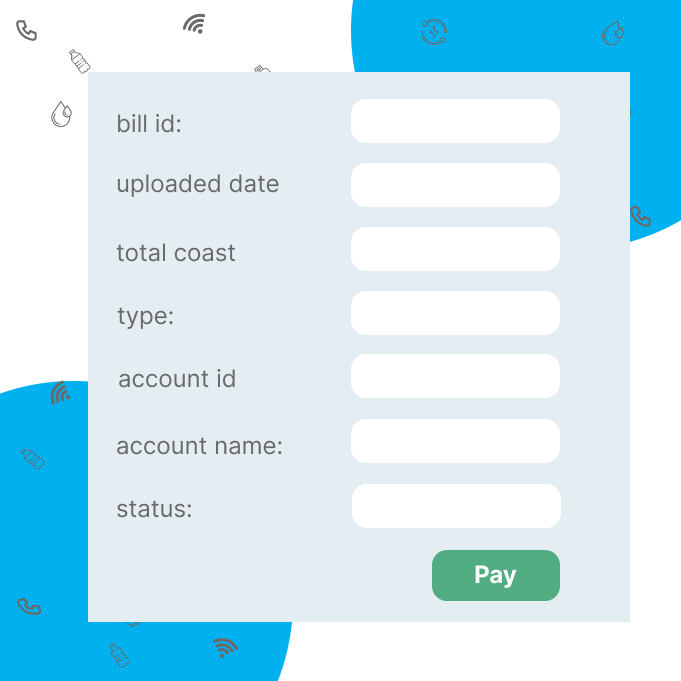
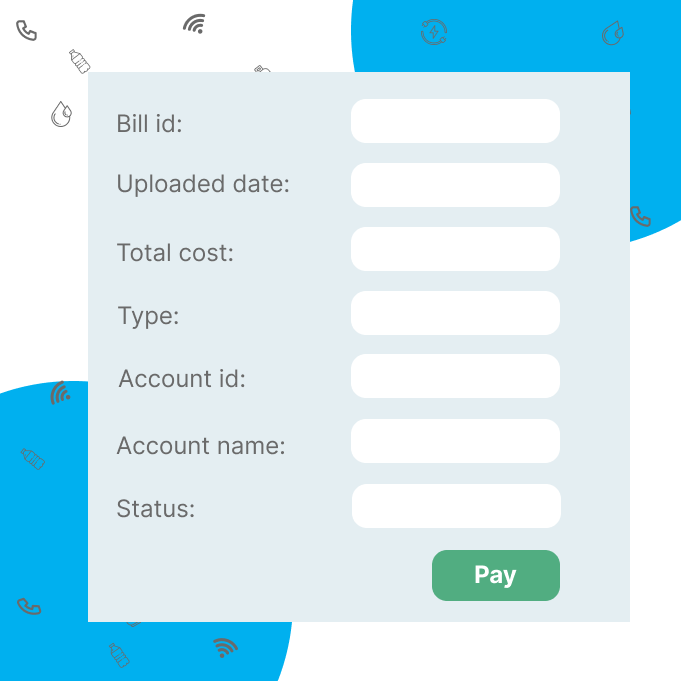
BillInfo Frame is ready to be used

diff --git a/billing manegment system/src/Bills_management_system/Bills_info.java b/billing manegment system/src/Bills_management_system/Bills_info.java
@@ -5,6 +5,9 @@
  */
 package Bills_management_system;
 
+import com.formdev.flatlaf.FlatDarkLaf;
+import javax.swing.UIManager;
+
 /**
  *
  * @author ahmed
@@ -27,15 +30,15 @@ public class Bills_info extends javax.swing.JFrame {
     // <editor-fold defaultstate="collapsed" desc="Generated Code">//GEN-BEGIN:initComponents
     private void initComponents() {
 
-        Status = new javax.swing.JLabel();
-        Account_name = new javax.swing.JLabel();
-        Acount_id = new javax.swing.JLabel();
+        BillId = new javax.swing.JLabel();
+        UploadedDate = new javax.swing.JLabel();
+        TotalCost = new javax.swing.JLabel();
         Type = new javax.swing.JLabel();
-        Total_coast = new javax.swing.JLabel();
-        Uploaded_date = new javax.swing.JLabel();
-        Bill_id = new javax.swing.JLabel();
-        pay_button = new javax.swing.JLabel();
-        background = new javax.swing.JLabel();
+        AccountId = new javax.swing.JLabel();
+        AccountName = new javax.swing.JLabel();
+        Status = new javax.swing.JLabel();
+        PayButton = new javax.swing.JLabel();
+        Background = new javax.swing.JLabel();
 
         setDefaultCloseOperation(javax.swing.WindowConstants.EXIT_ON_CLOSE);
         setCursor(new java.awt.Cursor(java.awt.Cursor.DEFAULT_CURSOR));
@@ -45,44 +48,44 @@ public class Bills_info extends javax.swing.JFrame {
         setResizable(false);
         getContentPane().setLayout(new org.netbeans.lib.awtextra.AbsoluteLayout());
 
-        Status.setFont(new java.awt.Font("Dialog", 0, 20)); // NOI18N
-        Status.setForeground(new java.awt.Color(0, 138, 188));
-        Status.setHorizontalAlignment(javax.swing.SwingConstants.CENTER);
-        getContentPane().add(Status, new org.netbeans.lib.awtextra.AbsoluteConstraints(350, 490, 210, 40));
+        BillId.setFont(new java.awt.Font("Dialog", 0, 20)); // NOI18N
+        BillId.setForeground(new java.awt.Color(0, 138, 188));
+        BillId.setHorizontalAlignment(javax.swing.SwingConstants.CENTER);
+        getContentPane().add(BillId, new org.netbeans.lib.awtextra.AbsoluteConstraints(350, 100, 210, 40));
 
-        Account_name.setFont(new java.awt.Font("Dialog", 0, 20)); // NOI18N
-        Account_name.setForeground(new java.awt.Color(0, 138, 188));
-        Account_name.setHorizontalAlignment(javax.swing.SwingConstants.CENTER);
-        getContentPane().add(Account_name, new org.netbeans.lib.awtextra.AbsoluteConstraints(350, 420, 210, 40));
+        UploadedDate.setFont(new java.awt.Font("Dialog", 0, 20)); // NOI18N
+        UploadedDate.setForeground(new java.awt.Color(0, 138, 188));
+        UploadedDate.setHorizontalAlignment(javax.swing.SwingConstants.CENTER);
+        getContentPane().add(UploadedDate, new org.netbeans.lib.awtextra.AbsoluteConstraints(350, 170, 210, 40));
 
-        Acount_id.setFont(new java.awt.Font("Dialog", 0, 20)); // NOI18N
-        Acount_id.setForeground(new java.awt.Color(0, 138, 188));
-        Acount_id.setHorizontalAlignment(javax.swing.SwingConstants.CENTER);
-        getContentPane().add(Acount_id, new org.netbeans.lib.awtextra.AbsoluteConstraints(350, 360, 210, 40));
+        TotalCost.setFont(new java.awt.Font("Dialog", 0, 20)); // NOI18N
+        TotalCost.setForeground(new java.awt.Color(0, 138, 188));
+        TotalCost.setHorizontalAlignment(javax.swing.SwingConstants.CENTER);
+        getContentPane().add(TotalCost, new org.netbeans.lib.awtextra.AbsoluteConstraints(350, 230, 210, 40));
 
         Type.setFont(new java.awt.Font("Dialog", 0, 20)); // NOI18N
         Type.setForeground(new java.awt.Color(0, 138, 188));
         Type.setHorizontalAlignment(javax.swing.SwingConstants.CENTER);
         getContentPane().add(Type, new org.netbeans.lib.awtextra.AbsoluteConstraints(350, 290, 210, 40));
 
-        Total_coast.setFont(new java.awt.Font("Dialog", 0, 20)); // NOI18N
-        Total_coast.setForeground(new java.awt.Color(0, 138, 188));
-        Total_coast.setHorizontalAlignment(javax.swing.SwingConstants.CENTER);
-        getContentPane().add(Total_coast, new org.netbeans.lib.awtextra.AbsoluteConstraints(350, 230, 210, 40));
+        AccountId.setFont(new java.awt.Font("Dialog", 0, 20)); // NOI18N
+        AccountId.setForeground(new java.awt.Color(0, 138, 188));
+        AccountId.setHorizontalAlignment(javax.swing.SwingConstants.CENTER);
+        getContentPane().add(AccountId, new org.netbeans.lib.awtextra.AbsoluteConstraints(350, 360, 210, 40));
 
-        Uploaded_date.setFont(new java.awt.Font("Dialog", 0, 20)); // NOI18N
-        Uploaded_date.setForeground(new java.awt.Color(0, 138, 188));
-        Uploaded_date.setHorizontalAlignment(javax.swing.SwingConstants.CENTER);
-        getContentPane().add(Uploaded_date, new org.netbeans.lib.awtextra.AbsoluteConstraints(350, 170, 210, 40));
+        AccountName.setFont(new java.awt.Font("Dialog", 0, 20)); // NOI18N
+        AccountName.setForeground(new java.awt.Color(0, 138, 188));
+        AccountName.setHorizontalAlignment(javax.swing.SwingConstants.CENTER);
+        getContentPane().add(AccountName, new org.netbeans.lib.awtextra.AbsoluteConstraints(350, 420, 210, 40));
 
-        Bill_id.setFont(new java.awt.Font("Dialog", 0, 20)); // NOI18N
-        Bill_id.setForeground(new java.awt.Color(0, 138, 188));
-        Bill_id.setHorizontalAlignment(javax.swing.SwingConstants.CENTER);
-        getContentPane().add(Bill_id, new org.netbeans.lib.awtextra.AbsoluteConstraints(350, 100, 210, 40));
-        getContentPane().add(pay_button, new org.netbeans.lib.awtextra.AbsoluteConstraints(440, 550, 110, 50));
+        Status.setFont(new java.awt.Font("Dialog", 0, 20)); // NOI18N
+        Status.setForeground(new java.awt.Color(0, 138, 188));
+        Status.setHorizontalAlignment(javax.swing.SwingConstants.CENTER);
+        getContentPane().add(Status, new org.netbeans.lib.awtextra.AbsoluteConstraints(350, 490, 210, 40));
+        getContentPane().add(PayButton, new org.netbeans.lib.awtextra.AbsoluteConstraints(440, 550, 110, 50));
 
-        background.setIcon(new javax.swing.ImageIcon(getClass().getResource("/figma_design/bill info.png"))); // NOI18N
-        getContentPane().add(background, new org.netbeans.lib.awtextra.AbsoluteConstraints(0, 0, -1, -1));
+        Background.setIcon(new javax.swing.ImageIcon(getClass().getResource("/figma_design/bill info.png"))); // NOI18N
+        getContentPane().add(Background, new org.netbeans.lib.awtextra.AbsoluteConstraints(0, 0, -1, -1));
 
         pack();
         setLocationRelativeTo(null);
@@ -92,29 +95,13 @@ public class Bills_info extends javax.swing.JFrame {
      * @param args the command line arguments
      */
     public static void main(String args[]) {
-        /* Set the Nimbus look and feel */
-        //<editor-fold defaultstate="collapsed" desc=" Look and feel setting code (optional) ">
-        /* If Nimbus (introduced in Java SE 6) is not available, stay with the default look and feel.
-         * For details see http://download.oracle.com/javase/tutorial/uiswing/lookandfeel/plaf.html 
-         */
-        try {
-            for (javax.swing.UIManager.LookAndFeelInfo info : javax.swing.UIManager.getInstalledLookAndFeels()) {
-                if ("Nimbus".equals(info.getName())) {
-                    javax.swing.UIManager.setLookAndFeel(info.getClassName());
-                    break;
-                }
+        try{
+                        UIManager.setLookAndFeel(new FlatDarkLaf());
+
             }
-        } catch (ClassNotFoundException ex) {
-            java.util.logging.Logger.getLogger(Bills_info.class.getName()).log(java.util.logging.Level.SEVERE, null, ex);
-        } catch (InstantiationException ex) {
-            java.util.logging.Logger.getLogger(Bills_info.class.getName()).log(java.util.logging.Level.SEVERE, null, ex);
-        } catch (IllegalAccessException ex) {
-            java.util.logging.Logger.getLogger(Bills_info.class.getName()).log(java.util.logging.Level.SEVERE, null, ex);
-        } catch (javax.swing.UnsupportedLookAndFeelException ex) {
-            java.util.logging.Logger.getLogger(Bills_info.class.getName()).log(java.util.logging.Level.SEVERE, null, ex);
+        catch (Exception ex) {
+            java.util.logging.Logger.getLogger(Login.class.getName()).log(java.util.logging.Level.SEVERE, null, ex);
         }
-        //</editor-fold>
-        //</editor-fold>
 
         /* Create and display the form */
         java.awt.EventQueue.invokeLater(new Runnable() {
@@ -125,14 +112,14 @@ public class Bills_info extends javax.swing.JFrame {
     }
 
     // Variables declaration - do not modify//GEN-BEGIN:variables
-    private javax.swing.JLabel Account_name;
-    private javax.swing.JLabel Acount_id;
-    private javax.swing.JLabel Bill_id;
+    private javax.swing.JLabel AccountId;
+    private javax.swing.JLabel AccountName;
+    private javax.swing.JLabel Background;
+    private javax.swing.JLabel BillId;
+    private javax.swing.JLabel PayButton;
     private javax.swing.JLabel Status;
-    private javax.swing.JLabel Total_coast;
+    private javax.swing.JLabel TotalCost;
     private javax.swing.JLabel Type;
-    private javax.swing.JLabel Uploaded_date;
-    private javax.swing.JLabel background;
-    private javax.swing.JLabel pay_button;
+    private javax.swing.JLabel UploadedDate;
     // End of variables declaration//GEN-END:variables
 }
